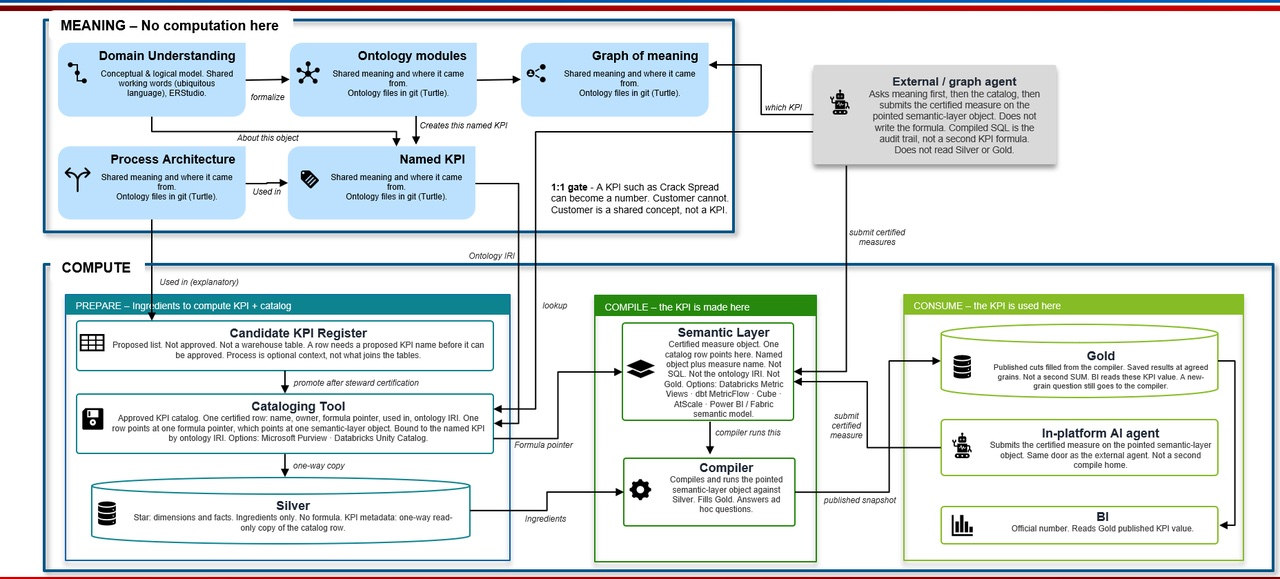
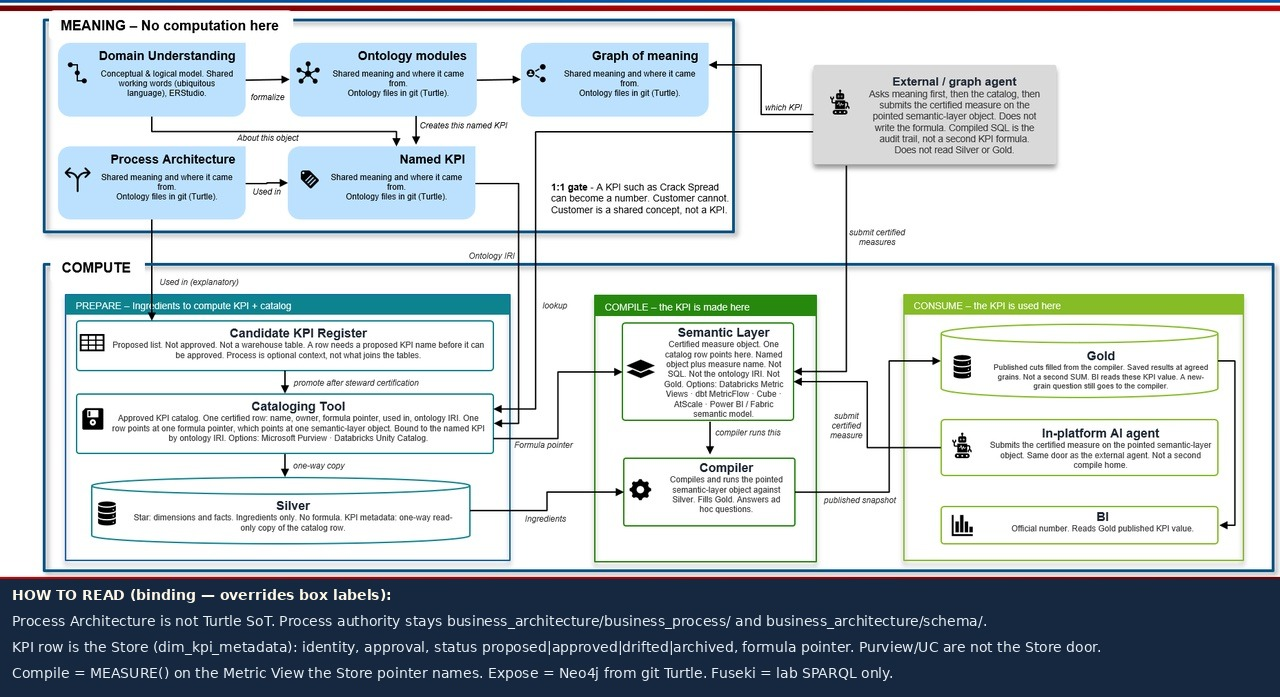
Align meaning-path wording with Store, MEASURE(), and process authority
Store owns identity, approval, status, and formula pointer. Drop Lakebase SPO fallback and enterprise SPARQL. Fuseki is optional lab only. Caption the architecture picture so process JSON stays process SoT.

diff --git a/demos/o2c-unbilled-databricks-free-cv-map/o2c-unbilled-databricks-free/IMPLEMENTATION-HANDOFF.md b/demos/o2c-unbilled-databricks-free-cv-map/o2c-unbilled-databricks-free/IMPLEMENTATION-HANDOFF.md
@@ -56,7 +56,7 @@ The reference implementation **implements** the shared architecture. It may reve
 - Create role-aware Silver structures and a Gold unbilled exposure fact.
 - Implement reusable measures through Databricks Metric Views.
 - Implement a minimum viable KPI Store pattern for candidate/approved KPI governance and published KPI snapshots.
-- Publish semantic mappings and SHACL validation in Fuseki.
+- Validate published Turtle with pySHACL (CI or local). Apache Jena Fuseki is optional lab SPARQL classroom only — not a demo runtime requirement.
 - Publish a serving/query context graph in Neo4j Community.
 - Record technical catalog, ownership, lineage, quality, and glossary context through Unity Catalog and OpenMetadata, within available platform capabilities.
 - Deliver a Plotly Dash operational control-tower dashboard.
@@ -157,10 +157,10 @@ Every reusable measurement must have, at minimum:
                                 │              │ approved export
                      model context│              ▼
                                 │   ┌─────────────────────────────┐
-                                │   │ Fuseki demo runtime         │
-                                │   │ SPARQL/SHACL from git Turtle│
+                                │   │ Turtle in git + pySHACL     │
+                                │   │ Fuseki = optional lab only  │
                                 │   └──────────────┬──────────────┘
-                                │                  │ controlled projection
+                                │                  │ Neo4j expose (n10s)
                                 ▼                  ▼
                   ┌──────────────────┐    ┌───────────────────────┐
                   │ Unity Catalog    │    │ Neo4j context graph   │
@@ -188,7 +188,7 @@ Every reusable measurement must have, at minimum:
 |---|---|---|
 | Downstream process meaning | Files under `business_architecture/business_process/` and `business_architecture/schema/` | Optional companions; demo-local process lists; files under `business_architecture/domain/` |
 | Conceptual/logical/physical data-model structure | ER/Studio (production). Sirius Web is the demo stand-in | Hand-authored graph nodes, dashboard fields, agent prose; Sirius as a second model SoT |
-| Formal semantic definitions and mapping assertions | Turtle in git (OWL/SKOS/SHACL). Fuseki loads those files as the demo SPARQL/SHACL runtime | Neo4j serving projection; Fuseki as a second ontology SoT |
+| Formal semantic definitions and mapping assertions | Turtle in git (OWL/SKOS/SHACL). pySHACL validates. Fuseki is optional lab SPARQL only | Neo4j as a second ontology SoT; Fuseki as SoT or a required runtime |
 | Operational source context | Lakebase source schemas and captured source extracts | Silver/Gold reinterpretation without retained source lineage |
 | Lakehouse technical assets and native Databricks lineage | Unity Catalog | OpenMetadata copy/projection |
 | Enterprise catalog | Purview (production). OpenMetadata is the demo stand-in | OpenMetadata as a second enterprise catalog |
@@ -219,9 +219,9 @@ This implementation may use the open-source tools in the table below. The produc
 | Sirius Web | ER/Studio | Models |
 | OpenMetadata | Purview | Enterprise catalog |
 | Neo4j Community | Neo4j | Serving graph |
-| Apache Jena Fuseki | none (demo runtime only) | SPARQL and SHACL loaded from git Turtle |
+| Apache Jena Fuseki | none | Optional lab SPARQL classroom. Not a required runtime. |
 
-Formal ontology source of truth stays Turtle in git. The serving graph stays Neo4j. Production seats stay ER/Studio, Purview, Unity Catalog, Bigeye, and Databricks Metric Views.
+Formal ontology source of truth stays Turtle in git. The serving graph stays Neo4j. Production seats stay ER/Studio, Purview, Unity Catalog, Bigeye, Databricks Metric Views, and Neo4j. The KPI Store owns identity, approval, status, and formula pointer.
 
 ## 5. Core data-model requirements
 
@@ -403,7 +403,9 @@ Create or extend a Sirius Web model that contains:
 
 Python automation may submit only allow-listed model changes, such as create/update controlled elements, add approved attributes, create relationships, export a model release, or execute validation. Every automated change must retain a request/correlation ID, actor, timestamp, model version, and result.
 
-### 7.2 Fuseki ontology and SHACL
+### 7.2 Turtle ontology and SHACL
+
+Fuseki is not required. Validate shapes with pySHACL. Optional Fuseki load is lab SPARQL only.
 
 Create modular RDF artifacts, for example:
 
@@ -632,7 +634,7 @@ Exit gate: Unbilled exposure is reproducible at declared grain/as-of time and cl
 Deliverables:
 
 - Sirius approved export and release record.
-- Fuseki ontology/mapping load and SHACL test results.
+- Published Turtle in git and pySHACL test results. Optional Fuseki load only if running the lab SPARQL classroom.
 - Neo4j controlled projection, constraints, indexes, and competency queries.
 - Unity Catalog and OpenMetadata registration/lineage evidence.
 - Cross-layer traceability queries.
@@ -718,7 +720,7 @@ Exit gate: A business/technical reviewer can ask the defined questions, obtain g
 ### Decisions and status
 
 - **Draft decision:** `EPM_Homelab/` governs reusable patterns; this directory contains implementation-specific executable evidence.
-- **Draft decision:** Turtle in git is the formal semantic and mapping source, not all meaning. FOUND-003 stays the human-readable semantic model. FOUND-004 stays the ontology design and uses conceptual names; exact IRIs, axioms, constraints, and individuals belong to that Turtle. Fuseki loads that release as the demo SPARQL/SHACL runtime. Neo4j is a controlled projection for investigation and impact analysis.
+- **Draft decision:** Turtle in git is the formal semantic and mapping source, not all meaning. FOUND-003 stays the human-readable semantic model. FOUND-004 stays the ontology design and uses conceptual names; exact IRIs, axioms, constraints, and individuals belong to that Turtle. Neo4j is the expose path (load published Turtle). Fuseki is optional lab SPARQL classroom only, not a required runtime. KPI Store owns identity, approval, status, and formula pointer; Purview/UC are not that row.
 - **Draft decision:** Dashboard and agent layers may not recreate governed metric/KPI formulas.
 - **Pending decision:** Initial unbilled calculation scope, financial treatment, business grain, and operational owner validation.
 

diff --git a/EPM_Homelab/02-Tool-Selection-and-ADRs.md b/EPM_Homelab/02-Tool-Selection-and-ADRs.md
@@ -410,7 +410,7 @@ Every answer returned by FastAPI or the MCP server includes a resolution trace: 
 
 **Status:** Accepted (lab transfer rule and intended enterprise landing)
 
-**Context.** The target band split is [MEANING vs COMPUTE](../architecture/EPM-ARCH-MEANING-vs-COMPUTE.jpg): meaning does not compute; the only join is one ontology IRI to one certified catalog row to one semantic-layer object. The intended enterprise landscape is ER/Studio, Databricks (Unity Catalog, Lakebase, Metric Views), BigEye, and Purview. That estate has **no triple store**. It already has **Neo4j**, unused. Introducing Fuseki, Neptune, GraphDB, or a Lakebase SPO table as a second meaning store would be a second program.
+**Context.** The target band split is [MEANING vs COMPUTE](../architecture/EPM-ARCH-MEANING-vs-COMPUTE.jpg): meaning does not compute; the only join is one ontology IRI to one KPI Store row to one Metric View compiled with `MEASURE()`. The Store owns identity, approval, status (`proposed | approved | drifted | archived`), and the formula pointer. Purview and Unity Catalog are not that row. The intended enterprise landscape is ER/Studio, Databricks (Unity Catalog, Lakebase ODS, Metric Views), BigEye, Purview, and unused Neo4j. That estate has **no triple store**. Introducing Fuseki, Neptune, GraphDB, or a Lakebase SPO table as a meaning store would be a second program.
 
 Machine ontology SoT is already Turtle in git ([EPM-FOUND-000](../EPM-FOUND-000.md); [metadata integration spec](../metadata%20Integration/enterprise-metadata-integration-architecture-specification.md)). Fuseki is listed there as demo runtime only.
 
@@ -418,22 +418,23 @@ Machine ontology SoT is already Turtle in git ([EPM-FOUND-000](../EPM-FOUND-000.
 - Do not add a client triple store.
 - Store published meaning as Turtle in git. That file is the store of triples, not a triple-store product.
 - Load the published Turtle into **Neo4j** (n10s or an equivalent RDF import) and expose it there (Browser, Bloom, Cypher, MCP). Reload from git. Do not edit meaning in Neo4j.
-- That graph is the **graph of meaning**: concepts, named KPIs, IRIs, process, catalog bindings. It is not a node per Databricks table and not an A-Box of Silver facts.
-- **Apache Jena Fuseki remains in the homelab** so SPARQL and server-side SHACL can be learned (ADR-HL-001). It does not transfer.
-- Lakebase stays the **ODS** (ops ingredients). A Lakebase SPO table is a fallback meaning runtime only if Neo4j stays dark. It is not SoT.
+- That graph is the **graph of meaning**: concepts, named KPIs, IRIs, and Store bindings. Process *links* may appear; process **authority** stays `business_architecture/business_process/` and `business_architecture/schema/`. The graph is not a node per Databricks table and not an A-Box of Silver facts.
+- **Apache Jena Fuseki remains in the homelab** so SPARQL and server-side SHACL can be learned (ADR-HL-001). It does not transfer. There is no enterprise SPARQL seat.
+- Lakebase stays the **ODS** (ops ingredients) only. Not a triple store. Not a meaning runtime. Not an SPO fallback.
 
 **Alternatives considered.**
 
 | Alternative | Why not selected |
 |---|---|
 | Fuseki or another SPARQL server in the client estate | No triple-store seat; procurement and ops for a product they do not have |
-| Lakebase SPO (OntoBricks default) as the primary meaning store | Databricks-native, but fights the unused-Neo4j serve seat and invites an A-Box of Silver |
-| Purview / UC as the only meaning graph | Catalog is the certified-row seat, not a traversable graph of meaning |
+| Lakebase SPO (OntoBricks default) as primary or fallback meaning store | Lakebase is ODS only. An SPO copy is a second meaning runtime and an A-Box of Silver |
+| Purview / UC as the KPI Store row | Those seats discover and enforce assets. The Store owns identity, approval, status, and the formula pointer |
 | Neo4j as SoT | Edits would fork from git Turtle |
+| Enterprise SPARQL endpoint | Client has no triple store. Expose is Cypher on Neo4j |
 
 **Consequences.**
-- Transfer rehearsal is: write Turtle → validate (pySHACL / HermiT) → commit → n10s load → Cypher competency questions → catalog row with IRI → Metric View compile.
-- Agent contract on both lab and client: Cypher “which KPI” → catalog lookup → submit the certified measure. No formula authorship in the graph.
+- Transfer rehearsal is: write Turtle → validate (pySHACL / HermiT) → commit → n10s load → Cypher competency questions → KPI Store row (`dim_kpi_metadata`) with IRI and formula pointer → `MEASURE()` on that Metric View.
+- Agent contract on both lab and client: Cypher “which KPI” → Store lookup → `MEASURE()` on the pointed Metric View. No formula authorship in the graph.
 
 ## ADR-HL-022 — OntoBricks drafts Turtle; dbxmetagen drafts catalog metadata
 

diff --git a/metadata Integration/enterprise-metadata-integration-architecture-specification.md b/metadata Integration/enterprise-metadata-integration-architecture-specification.md
@@ -91,7 +91,7 @@ Process authority for this scope is the files under `business_architecture/busin
 +----------------------------------------------------------------------------------+
 |                    CONSUMPTION / EXPERIENCE LAYER                                |
 |----------------------------------------------------------------------------------|
-| Purview discovery UI | Data-product portal | Semantic APIs | Context API | SPARQL|
+| Purview discovery UI | Data-product portal | Semantic APIs | Context API | Cypher (Neo4j)|
 | Policy-filtered search, lineage views, access-request routes, AI retrieval       |
 +-----------------------------------+----------------------------------------------+
                                     |
@@ -178,7 +178,7 @@ Demo and reference implementations may use the open-source tools in the table be
 | Neo4j Community | Neo4j | Serving graph |
 | Apache Jena Fuseki | none (demo runtime only) | SPARQL and SHACL loaded from git Turtle |
 
-Formal ontology source of truth stays Turtle in git (the ontology file format). The serving graph stays Neo4j. Production seats stay ER/Studio, Purview, Unity Catalog, Bigeye, and Databricks Metric Views. There is no client triple store. Apache Jena Fuseki is a homelab SPARQL classroom only.
+Formal ontology source of truth stays Turtle in git (the ontology file format). The serving graph is **Neo4j** (Cypher). Graph-host selection is closed: no client triple store, no enterprise SPARQL endpoint. Production seats stay ER/Studio, Purview, Unity Catalog, Bigeye, Databricks Metric Views, and Neo4j. Apache Jena Fuseki is a homelab SPARQL classroom only. The KPI Store (`dim_kpi_metadata`) owns identity, approval, status (`proposed | approved | drifted | archived`), and the formula pointer. Purview and Unity Catalog are not that row.
 
 Target band split: [`architecture/EPM-ARCH-MEANING-vs-COMPUTE.jpg`](../architecture/EPM-ARCH-MEANING-vs-COMPUTE.jpg).
 
@@ -766,7 +766,7 @@ Canonical graph
 | Business user | Purview/data-product portal | Product meaning, steward, certification, glossary, access route, high-level lineage |
 | BI developer | Semantic catalog/API | Approved metrics, dimensions, grain, service contract, usage guidance |
 | Data engineer | Purview + Unity + technical lineage API | Schemas, quality rules, transformations, physical mappings, detailed lineage |
-| Architect/modeler | Graph explorer / SPARQL / modeling repository | Ontology, mapping registry, provenance, dependency analysis |
+| Architect/modeler | Neo4j / Cypher / modeling repository | Ontology, mapping registry, provenance, dependency analysis. SPARQL is lab-only (Fuseki). |
 | Auditor/controller | Evidence portal | KPI version, approvals, validated lineage, quality status, sources, review trail |
 | AI agent | Policy-filtered context API + semantic tools | Approved concepts, metric/service contracts, quality/freshness, user-permitted paths |
 | External partner | DCAT export/profile endpoint | Only externally shareable datasets/services and approved metadata |
@@ -1032,7 +1032,7 @@ Consumer products
 - Define EPM namespace, stable URI policy, and identifier strategy.
 - Define KPI/metric/data-product vocabulary and classification taxonomy.
 - Establish the mapping-registry schema.
-- Choose RDF/graph store and API serving approach.
+- Graph host is decided: Turtle in git; Neo4j serving (Cypher); no client triple store; no enterprise SPARQL. API serving is Context API plus Cypher, not SPARQL.
 
 ### Phase 1 — Pilot
 
@@ -1113,7 +1113,7 @@ Consumer products
 
 ## 23. Open Questions
 
-1. Which product will host the canonical RDF graph: dedicated triplestore, graph database projection, catalog-adjacent graph service, or managed cloud knowledge graph?
+1. ~~Which product will host the canonical RDF graph?~~ **Closed (2026-08-29):** Turtle in git is machine SoT. Neo4j is the serving graph (Cypher). No client triple store. No enterprise SPARQL. See ADR-HL-021.
 2. What is the authoritative enterprise data-product lifecycle registry: Purview, KPI Store, dedicated product registry, or a governed graph workflow?
 3. Which Purview capability model is available: Data Map/Atlas, Unified Catalog, or both?
 4. Is Unity Catalog running in Azure Databricks, and which lineage/tags/metadata capabilities are enabled?
@@ -1153,7 +1153,7 @@ Consumer products
 
 - Purview can harvest selected Unity Catalog metadata.
 - Bigeye APIs/exports provide usable lineage identifiers and observation context.
-- A controlled graph store and identity/mapping registry can be operated.
+- Neo4j can be operated as the serving graph over published git Turtle, with an identity/mapping registry. No client triple store.
 - Data product, KPI, and semantic metric governance roles will be assigned.
 
 ### Source evidence

diff --git a/EPM-FOUND-000.md b/EPM-FOUND-000.md
@@ -94,7 +94,7 @@ Read left to right it is a design sequence. Read right to left it is the audit q
 
 ![MEANING vs COMPUTE](architecture/EPM-ARCH-MEANING-vs-COMPUTE.jpg)
 
-Meaning (Turtle in git) does not compute. Compute prepares Silver ingredients, compiles once in the semantic layer, and publishes Gold. The only legal join is **one ontology IRI → one certified catalog row → one semantic-layer object**. Agents ask the graph of meaning which KPI, look up the catalog, and submit the certified measure.
+Meaning (Turtle in git) does not compute. Compute prepares Silver ingredients, compiles once via `MEASURE()` on a Metric View, and publishes Gold. The only legal join is **one ontology IRI → one KPI Store row → one Metric View**. The Store owns identity, approval, status (`proposed | approved | drifted | archived` on `dim_kpi_metadata`), and the formula pointer. Purview and Unity Catalog discover and govern pointed-at assets; they are not the Store door. Process authority stays `business_architecture/business_process/` and `business_architecture/schema/` — the picture’s Process Architecture box is not Turtle SoT. Agents ask the graph of meaning which KPI, look up the Store row, and submit `MEASURE()` on the Metric View the formula pointer names.
 
 Artifact note: [architecture/README.md](architecture/README.md). Enterprise serve path (no client triple store; Neo4j expose; Fuseki is lab-only): ADR-HL-021 in [EPM_Homelab/02-Tool-Selection-and-ADRs.md](EPM_Homelab/02-Tool-Selection-and-ADRs.md).
 
@@ -363,7 +363,7 @@ Seeding list for **EPM-DEC-001**, which does not yet exist. No item is Approved 
 | **D-14** | **A prior interim re-homing of the Charter/Register to PROJ-001/PROJ-002 is void; those IDs belong to the pack's Project Instructions and Operating Model** | **Working baseline (2026-08-05)** | **This session; corrects C-06** |
 | **D-15** | **The old Charter and old Register are Superseded (retained for reference); the Register's migration method is preserved in the new PROJ-006** | **Working baseline (2026-08-05)** | **This session; see C-10, C-11** |
 | **D-16** | **One canonical artifact lifecycle and one decision-status set are adopted; earlier "Working Baseline / Proposed / Approved" wording maps onto them** | **Working baseline (2026-08-05)** | **This session; resolves C-09** |
-| D-17 | No client triple store. Machine ontology SoT is Turtle in git. Enterprise expose path is Neo4j. Fuseki remains a homelab SPARQL classroom only. OntoBricks drafts Turtle; dbxmetagen drafts catalog metadata; neither is SoT or compiler | Working baseline (2026-08-29) | [MEANING vs COMPUTE](architecture/EPM-ARCH-MEANING-vs-COMPUTE.jpg); ADR-HL-021 / ADR-HL-022 |
+| D-17 | No client triple store. Machine ontology SoT is Turtle in git. Enterprise expose path is Neo4j (Cypher, not SPARQL). Fuseki remains a homelab SPARQL classroom only. KPI Store owns identity, approval, status, and formula pointer. Purview/UC are not the Store door. OntoBricks drafts Turtle; dbxmetagen drafts UC comments/tags; neither is SoT or compiler | Working baseline (2026-08-29) | [MEANING vs COMPUTE](architecture/EPM-ARCH-MEANING-vs-COMPUTE.jpg); ADR-HL-021 / ADR-HL-022 |
 
 > **On D-13.** The v2 material was a level-7 source (outside-project chat) and could not, by itself, override the project baseline. It became baseline because the EPM Lead ratified it. That ratification is the governance act that makes the adoption legitimate rather than a silent override.
 

diff --git a/architecture/README.md b/architecture/README.md
@@ -6,9 +6,18 @@
 **Status:** Working visual — target band split  
 **Owner:** Enterprise Performance Model Lead
 
-The MEANING vs COMPUTE picture. Meaning (Turtle in git) does not compute. Compute prepares ingredients, compiles once in the semantic layer, and publishes Gold. The only legal join is **one ontology IRI → one certified catalog row → one semantic-layer object**. Agents ask the graph of meaning which KPI, look up the catalog, and submit the certified measure. They do not write formulas and they do not read Silver or Gold directly.
+The MEANING vs COMPUTE picture. Meaning does not compute. Compute prepares Silver ingredients, compiles once via `MEASURE()` on a Metric View, and publishes Gold.
 
-**Machine ontology SoT** is Turtle in git. **Enterprise expose path** is Neo4j loaded from that published Turtle. Apache Jena Fuseki is a homelab SPARQL classroom, not a client triple store.
+The JPG footer is binding and overrides two box labels on the drawing:
+
+| Box on the drawing | Read as |
+|---|---|
+| Process Architecture / “ontology files in git (Turtle)” | Process **authority** stays [`business_architecture/business_process/`](../business_architecture/business_process/) and [`business_architecture/schema/`](../business_architecture/schema/). Turtle may *link* process IRIs. Turtle is not process SoT. |
+| Cataloging Tool (Purview / Unity Catalog) as the KPI row | **KPI Store** owns identity, approval, status (`proposed \| approved \| drifted \| archived` on `dim_kpi_metadata`), and the formula pointer. Purview is enterprise discovery. Unity Catalog is the technical catalog (tables, Metric Views, access). Neither is the Store door. |
+
+The only legal join is **one ontology IRI → one KPI Store row → one Metric View**. Agents ask the graph of meaning which KPI, look up the Store row, and submit `MEASURE()` on the Metric View named by the formula pointer. They do not write formulas and they do not read Silver or Gold directly.
+
+**Machine ontology SoT** is Turtle in git. **Enterprise expose path** is Neo4j loaded from that published Turtle. Apache Jena Fuseki is a homelab SPARQL classroom, not a client triple store. There is no enterprise SPARQL seat.
 
 Related:
 

diff --git a/README.md b/README.md
@@ -8,7 +8,7 @@ The conceptual chain is the same in every track:
 
 A widely used calculation is not automatically a KPI. Appearance in a register means planned in the controlled set; it does not prove a file exists.
 
-**Meaning vs compute.** Meaning does not compute. Turtle in git is the machine ontology SoT. The enterprise expose path is Neo4j loaded from that published Turtle — the client has no triple store. The homelab still runs **Apache Jena Fuseki** so SPARQL can be learned; Fuseki does not transfer. Picture: [architecture/EPM-ARCH-MEANING-vs-COMPUTE.jpg](architecture/EPM-ARCH-MEANING-vs-COMPUTE.jpg). Decisions: [ADR-HL-021](EPM_Homelab/02-Tool-Selection-and-ADRs.md) (serve path), [ADR-HL-022](EPM_Homelab/02-Tool-Selection-and-ADRs.md) (OntoBricks drafts Turtle; dbxmetagen drafts catalog metadata).
+**Meaning vs compute.** Meaning does not compute. Turtle in git is the machine ontology SoT. The enterprise expose path is Neo4j loaded from that published Turtle — the client has no triple store and no SPARQL seat. The **KPI Store** owns identity, approval, status, and the formula pointer; Purview/UC are not that row. Compile is `MEASURE()`. The homelab still runs **Apache Jena Fuseki** so SPARQL can be learned; Fuseki does not transfer. Picture: [architecture/EPM-ARCH-MEANING-vs-COMPUTE.jpg](architecture/EPM-ARCH-MEANING-vs-COMPUTE.jpg). Decisions: [ADR-HL-021](EPM_Homelab/02-Tool-Selection-and-ADRs.md) (serve path), [ADR-HL-022](EPM_Homelab/02-Tool-Selection-and-ADRs.md) (OntoBricks drafts Turtle; dbxmetagen drafts catalog metadata).
 
 ## Start here
 

diff --git a/EPM_Homelab/stack_decisions.md b/EPM_Homelab/stack_decisions.md
@@ -61,7 +61,8 @@ Target picture: [MEANING vs COMPUTE](../architecture/EPM-ARCH-MEANING-vs-COMPUTE
 | Expose / graph of meaning | Neo4j + n10s load of published Turtle | Same. Client already has unused Neo4j. |
 | Ops facts | PostgreSQL 18 | Lakebase (Databricks Postgres) |
 | Compile | DuckDB + MetricFlow in Track A; Metric Views in Track B | Databricks Metric Views only |
-| Catalog row (name, owner, formula pointer, IRI) | `dim_kpi_metadata` / OpenMetadata | Purview + Unity Catalog |
+| KPI Store row (identity, approval, status, formula pointer, ontology IRI) | `dim_kpi_metadata` (`proposed \| approved \| drifted \| archived`) | Same Store seat. The Store owns this row. |
+| Asset discovery / technical catalog | OpenMetadata (lab stand-in) | Purview (discovery/stewardship). Unity Catalog (tables, Metric Views, access). Not the Store door. |
 | Data quality on Silver/Gold | dbt tests / SHACL on meaning | BigEye (SHACL is not BigEye) |
 | Bootstrap Turtle from existing tables | Optional later; Protégé is the lab author | OntoBricks **draft** → review/rewrite → git Turtle → Neo4j |
 | Bootstrap UC comments/tags | Not required in the lab | dbxmetagen **draft**; never auto-apply Metric Views |
